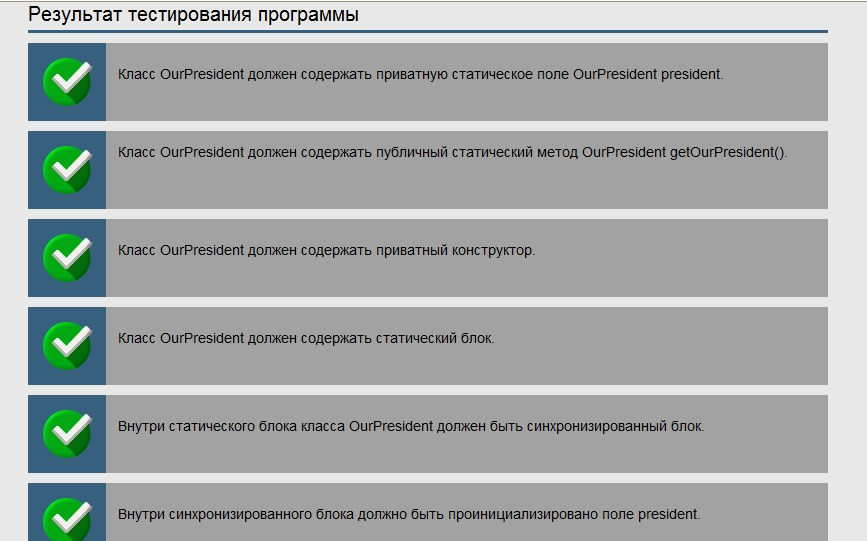
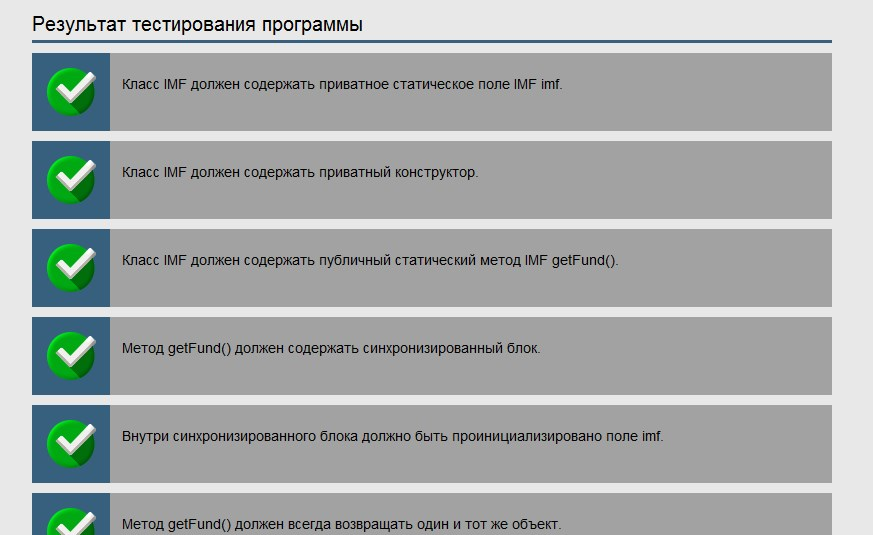
МВФ
task17.task1707;

diff --git a/JavaRushTasks/JavaRushTasks/2.JavaCore/src/com/javarush/task/task17/task1707/Solution.java b/JavaRushTasks/JavaRushTasks/2.JavaCore/src/com/javarush/task/task17/task1707/Solution.java
@@ -1,0 +1,18 @@
+package com.javarush.task.task17.task1707;
+
+/* 
+МВФ
+Singleton паттерн — синхронизация в методе.
+Класс IMF — это Международный Валютный Фонд.
+Внутри метода getFund создайте синхронизированный блок.
+Внутри синхронизированного блока инициализируйте поле imf так,
+чтобы метод getFund всегда возвращал один и тот же объект.
+*/
+
+public class Solution {
+    public static void main(String[] args) {
+        IMF fund = IMF.getFund();
+        IMF anotherFund = IMF.getFund();
+        System.out.println(fund == anotherFund );
+    }
+}

diff --git a/JavaRushTasks/JavaRushTasks/2.JavaCore/src/com/javarush/task/task17/task1707/IMF.java b/JavaRushTasks/JavaRushTasks/2.JavaCore/src/com/javarush/task/task17/task1707/IMF.java
@@ -1,0 +1,15 @@
+package com.javarush.task.task17.task1707;
+
+
+public class IMF {
+
+    private static IMF imf;
+
+    public static IMF getFund() {
+        //add your code here - добавь код тут
+        return imf;
+    }
+
+    private IMF() {
+    }
+}
